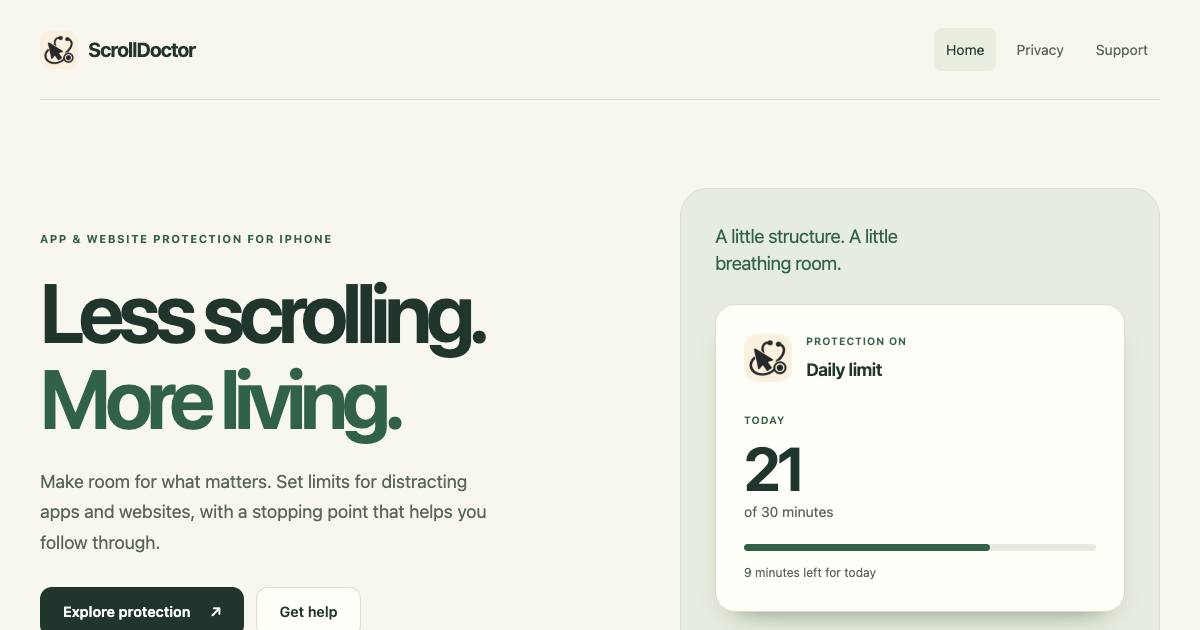
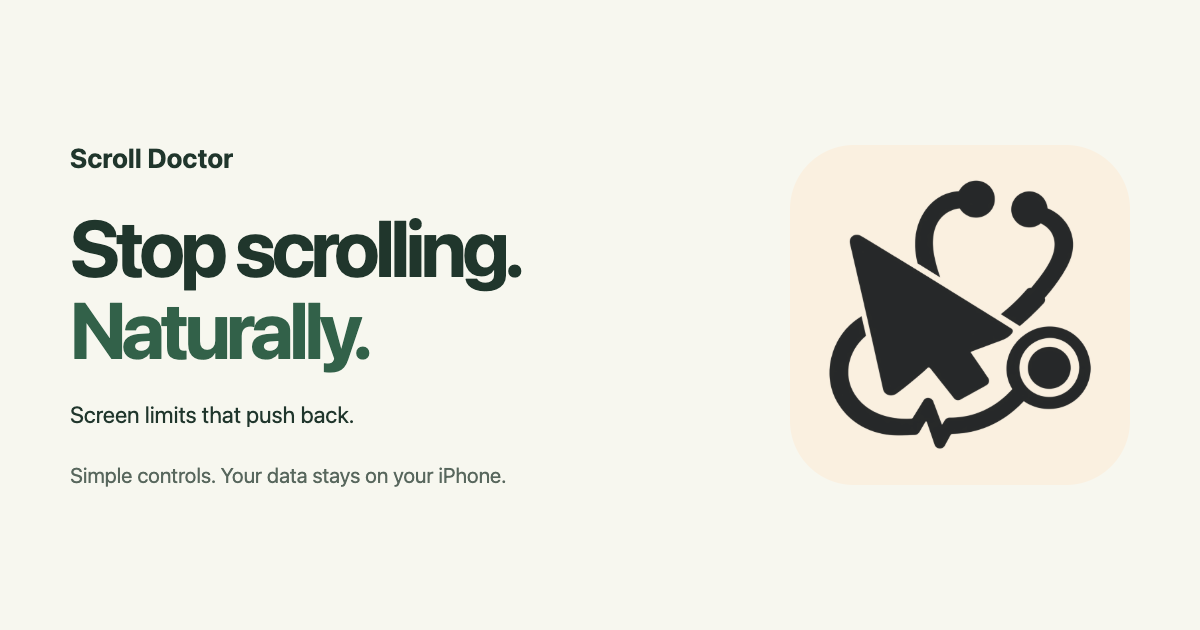
Align website branding and copy with App Store metadata

diff --git a/index.html b/index.html
@@ -3,28 +3,28 @@
   <head>
     <meta charset="utf-8">
     <meta name="viewport" content="width=device-width, initial-scale=1">
-    <meta name="description" content="ScrollDoctor helps you set private, on-device limits and schedules for distracting apps and websites, then understand your usage over time.">
+    <meta name="description" content="Naturally stop doom-scrolling and take back your time. Set daily limits, schedule breaks, and block distracting apps and websites with Scroll Doctor.">
     <meta name="theme-color" content="#f6f1e4">
     <meta property="og:type" content="website">
-    <meta property="og:title" content="ScrollDoctor — Less scrolling. More living.">
-    <meta property="og:description" content="Set daily limits, weekly blocks, or permanent boundaries for distracting apps and websites. See your progress across a day, week, or month.">
+    <meta property="og:title" content="Scroll Doctor — Screen Limits That Push Back">
+    <meta property="og:description" content="Set healthier boundaries with the apps and websites that pull you in. Simple controls. Adaptive blocking. Your data stays on your iPhone.">
     <meta property="og:url" content="https://matthewgallo77.github.io/">
-    <meta property="og:image" content="https://matthewgallo77.github.io/assets/og.png">
+    <meta property="og:image" content="https://matthewgallo77.github.io/assets/og.png?v=20260919b">
     <meta name="twitter:card" content="summary_large_image">
-    <meta name="twitter:title" content="ScrollDoctor — Less scrolling. More living.">
-    <meta name="twitter:description" content="Private boundaries for distracting apps and websites, with simple day, week, and month usage views.">
-    <meta name="twitter:image" content="https://matthewgallo77.github.io/assets/og.png">
-    <link rel="icon" href="/assets/app-icon.png">
-    <link rel="apple-touch-icon" href="/assets/app-icon.png">
+    <meta name="twitter:title" content="Scroll Doctor — Screen Limits That Push Back">
+    <meta name="twitter:description" content="Naturally stop doom-scrolling. Protect your time with simple limits and adaptive blocking.">
+    <meta name="twitter:image" content="https://matthewgallo77.github.io/assets/og.png?v=20260919b">
+    <link rel="icon" href="/assets/app-icon.png?v=20260919b">
+    <link rel="apple-touch-icon" href="/assets/app-icon.png?v=20260919b">
     <link rel="stylesheet" href="/assets/styles.css">
-    <title>ScrollDoctor — Less scrolling. More living.</title>
+    <title>Scroll Doctor — Screen Limits That Push Back</title>
   </head>
   <body>
     <a class="skip-link" href="#main">Skip to content</a>
     <header class="site-header">
-      <a class="brand" href="/" aria-label="ScrollDoctor home">
-        <img src="/assets/app-icon.png" alt="" width="1024" height="1024">
-        <span>ScrollDoctor</span>
+      <a class="brand" href="/" aria-label="Scroll Doctor home">
+        <img src="/assets/app-icon.png?v=20260919b" alt="" width="1024" height="1024">
+        <span>Scroll Doctor</span>
       </a>
       <nav class="site-nav" aria-label="Main navigation">
         <a href="/" aria-current="page">Home</a>
@@ -36,21 +36,21 @@
     <main id="main" class="page-shell">
       <section class="hero">
         <div>
-          <p class="eyebrow">App &amp; website protection for iPhone</p>
-          <h1>Less scrolling.<br><span>More living.</span></h1>
-          <p class="hero-copy">Make room for what matters. Set limits for distracting apps and websites, with a stopping point that helps you follow through.</p>
+          <p class="eyebrow">Screen limits that push back</p>
+          <h1>Stop scrolling.<br><span>Naturally.</span></h1>
+          <p class="hero-copy">Take back your time. Choose the apps and websites that pull you in, set your boundaries, and let Scroll Doctor help you step away.</p>
           <div class="button-row">
-            <a class="button button-primary" href="#how-it-works">Explore protection <span aria-hidden="true">↗</span></a>
+            <a class="button button-primary" href="#how-it-works">How it works <span aria-hidden="true">↓</span></a>
             <a class="button button-secondary" href="/support/">Get help</a>
           </div>
           <p class="hero-note">No account. No ads. Your usage stays on your iPhone.</p>
         </div>
 
         <div class="product-card" role="img" aria-label="Illustrative daily limit: protection on, 21 of 30 minutes used, 9 minutes remaining.">
-          <p class="preview-label">A little structure. A little breathing room.</p>
+          <p class="preview-label">Simple limits. Healthier habits.</p>
           <div class="app-summary">
             <div class="app-row">
-              <img class="app-icon" src="/assets/app-icon.png" alt="" width="1024" height="1024">
+              <img class="app-icon" src="/assets/app-icon.png?v=20260919b" alt="" width="1024" height="1024">
               <div>
                 <p class="status-label">Protection on</p>
                 <p class="app-name">Daily limit</p>
@@ -67,18 +67,18 @@
       </section>
 
       <section id="how-it-works" class="section steps-section" aria-label="How it works">
-        <p class="eyebrow">Choose what works for you</p>
-        <h2>A boundary for every routine.</h2>
+        <p class="eyebrow">Simple. Focused. Clutter-free.</p>
+        <h2>Protect your time.</h2>
         <div class="feature-grid">
           <article class="feature-card">
             <span class="feature-number">01</span>
             <h3>Daily limits</h3>
-            <p>Choose how much time is enough, then review a clear day, week, or month summary.</p>
+            <p>Set a limit for each app or website. When time is up, adaptive blocking helps you stop—even when you’re tempted to keep scrolling.</p>
           </article>
           <article class="feature-card">
             <span class="feature-number">02</span>
             <h3>Weekly schedules</h3>
-            <p>Name each schedule for work, sleep, or being present, then block distractions on the days and times you choose.</p>
+            <p>Make space for work, sleep, or time offline. Give your schedules a name and choose when distractions stay blocked.</p>
           </article>
           <article class="feature-card">
             <span class="feature-number">03</span>
@@ -87,15 +87,15 @@
           </article>
         </div>
         <p class="plan-note">Start free with one app, one website, and one weekly schedule for each. Pro adds more apps, websites, schedules, and permanent blocking.</p>
-        <p class="report-note">Usage summaries and comparisons stay together across your protected apps and websites.</p>
-        <div class="relief-note"><h3>Need a moment of access?</h3><p>Quick Relief gives you a short, passcode-protected break for an eligible blocked app or website. Daily allowances are limited, and protection returns automatically.</p></div>
+        <p class="report-note">Track your progress with simple daily, weekly, and monthly usage views.</p>
+        <div class="relief-note"><h3>A short break when you need it.</h3><p>Use Quick Relief for brief access to an eligible blocked app or website. Enter your passcode, take a short break, and protection returns automatically. Daily allowances are limited.</p></div>
       </section>
 
       <section class="section" aria-labelledby="privacy-title">
         <div class="privacy-banner">
           <div>
-            <h2 id="privacy-title">Your habits aren’t our business.</h2>
-            <p>Your Screen Time information stays on your iPhone. You’re in control of what you protect.</p>
+            <h2 id="privacy-title">Your data stays yours.</h2>
+            <p>Your personal usage and browsing data stay on your iPhone. No accounts, ads, or tracking.</p>
             <a class="privacy-link" href="/privacy/">Our approach to privacy <span aria-hidden="true">↗</span></a>
           </div>
           <ul class="privacy-list">
@@ -109,7 +109,7 @@
     </main>
 
     <footer class="site-footer">
-      <p>© 2026 ScrollDoctor. Built for a more intentional scroll.</p>
+      <p>© 2026 Scroll Doctor. Take back your time.</p>
       <nav class="footer-nav" aria-label="Footer navigation">
         <a href="/privacy/">Privacy</a>
         <a href="/support/">Support</a>

diff --git a/support/index.html b/support/index.html
@@ -3,25 +3,25 @@
   <head>
     <meta charset="utf-8">
     <meta name="viewport" content="width=device-width, initial-scale=1">
-    <meta name="description" content="Get help with ScrollDoctor, Screen Time permission, app and website protection, usage views, and Quick Relief.">
+    <meta name="description" content="Get help with Scroll Doctor, Screen Time permission, app and website protection, usage views, and Quick Relief.">
     <meta name="theme-color" content="#f6f1e4">
     <meta property="og:type" content="website">
-    <meta property="og:title" content="Support — ScrollDoctor">
-    <meta property="og:description" content="Help with ScrollDoctor protection, Screen Time permission, Quick Relief, and privacy.">
+    <meta property="og:title" content="Support — Scroll Doctor">
+    <meta property="og:description" content="Help with Scroll Doctor protection, Screen Time permission, Quick Relief, and privacy.">
     <meta property="og:url" content="https://matthewgallo77.github.io/support/">
-    <meta property="og:image" content="https://matthewgallo77.github.io/assets/og.png">
+    <meta property="og:image" content="https://matthewgallo77.github.io/assets/og.png?v=20260919b">
     <meta name="twitter:card" content="summary_large_image">
-    <link rel="icon" href="/assets/app-icon.png">
-    <link rel="apple-touch-icon" href="/assets/app-icon.png">
+    <link rel="icon" href="/assets/app-icon.png?v=20260919b">
+    <link rel="apple-touch-icon" href="/assets/app-icon.png?v=20260919b">
     <link rel="stylesheet" href="/assets/styles.css">
-    <title>Support — ScrollDoctor</title>
+    <title>Support — Scroll Doctor</title>
   </head>
   <body>
     <a class="skip-link" href="#main">Skip to content</a>
     <header class="site-header">
-      <a class="brand" href="/" aria-label="ScrollDoctor home">
-        <img src="/assets/app-icon.png" alt="" width="1024" height="1024">
-        <span>ScrollDoctor</span>
+      <a class="brand" href="/" aria-label="Scroll Doctor home">
+        <img src="/assets/app-icon.png?v=20260919b" alt="" width="1024" height="1024">
+        <span>Scroll Doctor</span>
       </a>
       <nav class="site-nav" aria-label="Main navigation">
         <a href="/">Home</a>
@@ -34,7 +34,7 @@
       <header class="page-hero">
         <p class="eyebrow">Help when you need it</p>
         <h1>Support</h1>
-        <p class="lead">Quick answers for setting up and using ScrollDoctor on your iPhone.</p>
+        <p class="lead">Simple answers to help you protect your time.</p>
       </header>
 
       <article class="content-card">
@@ -42,8 +42,8 @@
           <h2 id="quick-help">Quick help</h2>
           <div class="faq-list">
             <details>
-              <summary>Why does ScrollDoctor request Screen Time access?</summary>
-              <p>Screen Time permission lets Apple’s privacy-preserving system protect the apps and websites you select. ScrollDoctor cannot read your feeds, messages, or browsing.</p>
+              <summary>Why does Scroll Doctor request Screen Time access?</summary>
+              <p>Screen Time permission lets Apple’s privacy-preserving system protect the apps and websites you select. Scroll Doctor cannot read your feeds, messages, or browsing.</p>
             </details>
             <details>
               <summary>What kinds of protection can I use?</summary>
@@ -55,23 +55,23 @@
             </details>
             <details>
               <summary>What happens when I reach a daily limit?</summary>
-              <p>ScrollDoctor asks you to close the app or website. If you continue, the reminder returns at increasingly shorter usage intervals.</p>
+              <p>Scroll Doctor steps in with a prompt to close the app or website. If you ignore your limit, the prompts return sooner to help you step away.</p>
             </details>
             <details>
               <summary>Can I name schedules and review my usage?</summary>
-              <p>Yes. Give weekly schedules names that make sense to you, then switch between day, week, and month views to compare usage across protected apps and websites.</p>
+              <p>Tap a schedule’s name to rename it. On the dashboard, choose an app or website and switch between day, week, and month views to see its usage and trends.</p>
             </details>
             <details>
               <summary>What is Quick Relief?</summary>
-              <p>Open ScrollDoctor and tap Quick Relief on an eligible blocked app or website, then enter your protection passcode. You get 15, then 5, then 3 minutes across all protections each day. Protection returns automatically.</p>
+              <p>Open Scroll Doctor and tap Quick Relief on an eligible blocked app or website, then enter your protection passcode. You get 15, then 5, then 3 minutes across all protections each day. Protection returns automatically.</p>
             </details>
             <details>
-              <summary>Does ScrollDoctor see what I select or view?</summary>
-              <p>Apple gives ScrollDoctor privacy-preserving selection tokens. Your Screen Time information is processed locally, and ScrollDoctor does not inspect what you view or send it to us.</p>
+              <summary>Does Scroll Doctor see what I select or view?</summary>
+              <p>Apple gives Scroll Doctor privacy-preserving selection tokens. Your Screen Time information is processed locally, and Scroll Doctor does not inspect what you view or send it to us.</p>
             </details>
             <details>
               <summary>How do I remove my information?</summary>
-              <p>Remove configured protections in ScrollDoctor and manage Screen Time permission in iOS Settings. ScrollDoctor does not maintain an account or server copy of your information.</p>
+              <p>Remove configured protections in Scroll Doctor and manage Screen Time permission in iOS Settings. Scroll Doctor does not maintain an account or server copy of your information.</p>
             </details>
           </div>
         </section>
@@ -79,15 +79,15 @@
         <section aria-labelledby="contact-support">
           <h2 id="contact-support">Still need help?</h2>
           <div class="support-cta">
-            <p>Email <a href="mailto:scrolldoctorapp@gmail.com">scrolldoctorapp@gmail.com</a> with your iOS version, ScrollDoctor version, and a short description of what happened. Do not include passcodes or other sensitive information.</p>
-            <a class="button button-primary" href="mailto:scrolldoctorapp@gmail.com?subject=ScrollDoctor%20Support">Email support</a>
+            <p>Email <a href="mailto:scrolldoctorapp@gmail.com">scrolldoctorapp@gmail.com</a> with your iOS version, Scroll Doctor version, and a short description of what happened. Do not include passcodes or other sensitive information.</p>
+            <a class="button button-primary" href="mailto:scrolldoctorapp@gmail.com?subject=Scroll%20Doctor%20Support">Email support</a>
           </div>
         </section>
       </article>
     </main>
 
     <footer class="site-footer">
-      <p>© 2026 ScrollDoctor. Built for a more intentional scroll.</p>
+      <p>© 2026 Scroll Doctor. Take back your time.</p>
       <nav class="footer-nav" aria-label="Footer navigation">
         <a href="/privacy/">Privacy</a>
         <a href="/support/">Support</a>

diff --git a/privacy/index.html b/privacy/index.html
@@ -3,25 +3,25 @@
   <head>
     <meta charset="utf-8">
     <meta name="viewport" content="width=device-width, initial-scale=1">
-    <meta name="description" content="ScrollDoctor privacy policy. Learn how app, website, and Screen Time information stays on your iPhone.">
+    <meta name="description" content="Scroll Doctor privacy policy. Learn how app, website, and Screen Time information stays on your iPhone.">
     <meta name="theme-color" content="#f6f1e4">
     <meta property="og:type" content="website">
-    <meta property="og:title" content="Privacy Policy — ScrollDoctor">
-    <meta property="og:description" content="ScrollDoctor processes Screen Time information locally and does not collect or transmit personal data.">
+    <meta property="og:title" content="Privacy Policy — Scroll Doctor">
+    <meta property="og:description" content="Scroll Doctor processes Screen Time information locally and does not collect or transmit personal data.">
     <meta property="og:url" content="https://matthewgallo77.github.io/privacy/">
-    <meta property="og:image" content="https://matthewgallo77.github.io/assets/og.png">
+    <meta property="og:image" content="https://matthewgallo77.github.io/assets/og.png?v=20260919b">
     <meta name="twitter:card" content="summary_large_image">
-    <link rel="icon" href="/assets/app-icon.png">
-    <link rel="apple-touch-icon" href="/assets/app-icon.png">
+    <link rel="icon" href="/assets/app-icon.png?v=20260919b">
+    <link rel="apple-touch-icon" href="/assets/app-icon.png?v=20260919b">
     <link rel="stylesheet" href="/assets/styles.css">
-    <title>Privacy Policy — ScrollDoctor</title>
+    <title>Privacy Policy — Scroll Doctor</title>
   </head>
   <body>
     <a class="skip-link" href="#main">Skip to content</a>
     <header class="site-header">
-      <a class="brand" href="/" aria-label="ScrollDoctor home">
-        <img src="/assets/app-icon.png?v=2" alt="" width="1024" height="1024">
-        <span>ScrollDoctor</span>
+      <a class="brand" href="/" aria-label="Scroll Doctor home">
+        <img src="/assets/app-icon.png?v=20260919b" alt="" width="1024" height="1024">
+        <span>Scroll Doctor</span>
       </a>
       <nav class="site-nav" aria-label="Main navigation">
         <a href="/">Home</a>
@@ -34,29 +34,29 @@
       <header class="page-hero">
         <p class="eyebrow">Your information stays yours</p>
         <h1>Privacy Policy</h1>
-        <p class="lead">ScrollDoctor is designed to work locally on your iPhone without collecting your personal data.</p>
+        <p class="lead">Scroll Doctor is designed to work locally on your iPhone without collecting your personal data.</p>
         <p class="meta-line">Effective August 31, 2026</p>
       </header>
 
       <article class="content-card">
         <section aria-labelledby="overview">
           <h2 id="overview">Overview</h2>
-          <p>ScrollDoctor helps you set daily limits, weekly schedules, and permanent protection for selected apps and websites. Everything happens on your iPhone. We do not collect, sell, or share your personal data.</p>
+          <p>Scroll Doctor helps you set daily limits, weekly schedules, and permanent protection for selected apps and websites. Everything happens on your iPhone. We do not collect, sell, or share your personal data.</p>
         </section>
 
         <section aria-labelledby="on-device">
           <h2 id="on-device">What stays on your iPhone</h2>
-          <p>With your permission, Apple’s Screen Time system lets ScrollDoctor privately identify the apps and websites you choose and measure the usage needed for your limits and history. Your selections, protection settings, usage summaries, Quick Relief activity, and passcode protection stay on your device. A website address entered for permanent protection is stored only in your iPhone’s Keychain.</p>
+          <p>With your permission, Apple’s Screen Time system lets Scroll Doctor privately identify the apps and websites you choose and measure the usage needed for your limits and history. Your selections, protection settings, usage summaries, Quick Relief activity, and passcode protection stay on your device. A website address entered for permanent protection is stored only in your iPhone’s Keychain.</p>
         </section>
 
         <section aria-labelledby="not-collected">
           <h2 id="not-collected">What we do not collect</h2>
-          <p>ScrollDoctor has no accounts, ads, analytics, or tracking. We do not read your feeds or messages, access social-media accounts, inspect network traffic, or send Screen Time information to a server.</p>
+          <p>Scroll Doctor has no accounts, ads, analytics, or tracking. We do not read your feeds or messages, access social-media accounts, inspect network traffic, or send Screen Time information to a server.</p>
         </section>
 
         <section aria-labelledby="control">
           <h2 id="control">Your choices</h2>
-          <p>You choose which apps and websites to protect, can remove configured protections in ScrollDoctor, and can manage Screen Time permission in iOS Settings. Because we do not keep user accounts or app data on a server, there is nothing you need to ask us to delete.</p>
+          <p>You choose which apps and websites to protect, can remove configured protections in Scroll Doctor, and can manage Screen Time permission in iOS Settings. Because we do not keep user accounts or app data on a server, there is nothing you need to ask us to delete.</p>
         </section>
 
         <section aria-labelledby="website">
@@ -66,13 +66,13 @@
 
         <section aria-labelledby="contact">
           <h2 id="contact">Contact</h2>
-          <p>Questions? Email <a href="mailto:scrolldoctorapp@gmail.com">scrolldoctorapp@gmail.com</a> or visit <a href="/support/">ScrollDoctor Support</a>. If this policy changes, the effective date above will be updated.</p>
+          <p>Questions? Email <a href="mailto:scrolldoctorapp@gmail.com">scrolldoctorapp@gmail.com</a> or visit <a href="/support/">Scroll Doctor Support</a>. If this policy changes, the effective date above will be updated.</p>
         </section>
       </article>
     </main>
 
     <footer class="site-footer">
-      <p>© 2026 ScrollDoctor. Built for a more intentional scroll.</p>
+      <p>© 2026 Scroll Doctor. Take back your time.</p>
       <nav class="footer-nav" aria-label="Footer navigation">
         <a href="/privacy/">Privacy</a>
         <a href="/support/">Support</a>

diff --git a/404.html b/404.html
@@ -4,9 +4,9 @@
     <meta charset="utf-8">
     <meta name="viewport" content="width=device-width, initial-scale=1">
     <meta name="robots" content="noindex">
-    <link rel="icon" href="/assets/app-icon.png">
+    <link rel="icon" href="/assets/app-icon.png?v=20260919b">
     <link rel="stylesheet" href="/assets/styles.css">
-    <title>Page not found — ScrollDoctor</title>
+    <title>Page not found — Scroll Doctor</title>
   </head>
   <body>
     <main id="main" class="page-shell">
